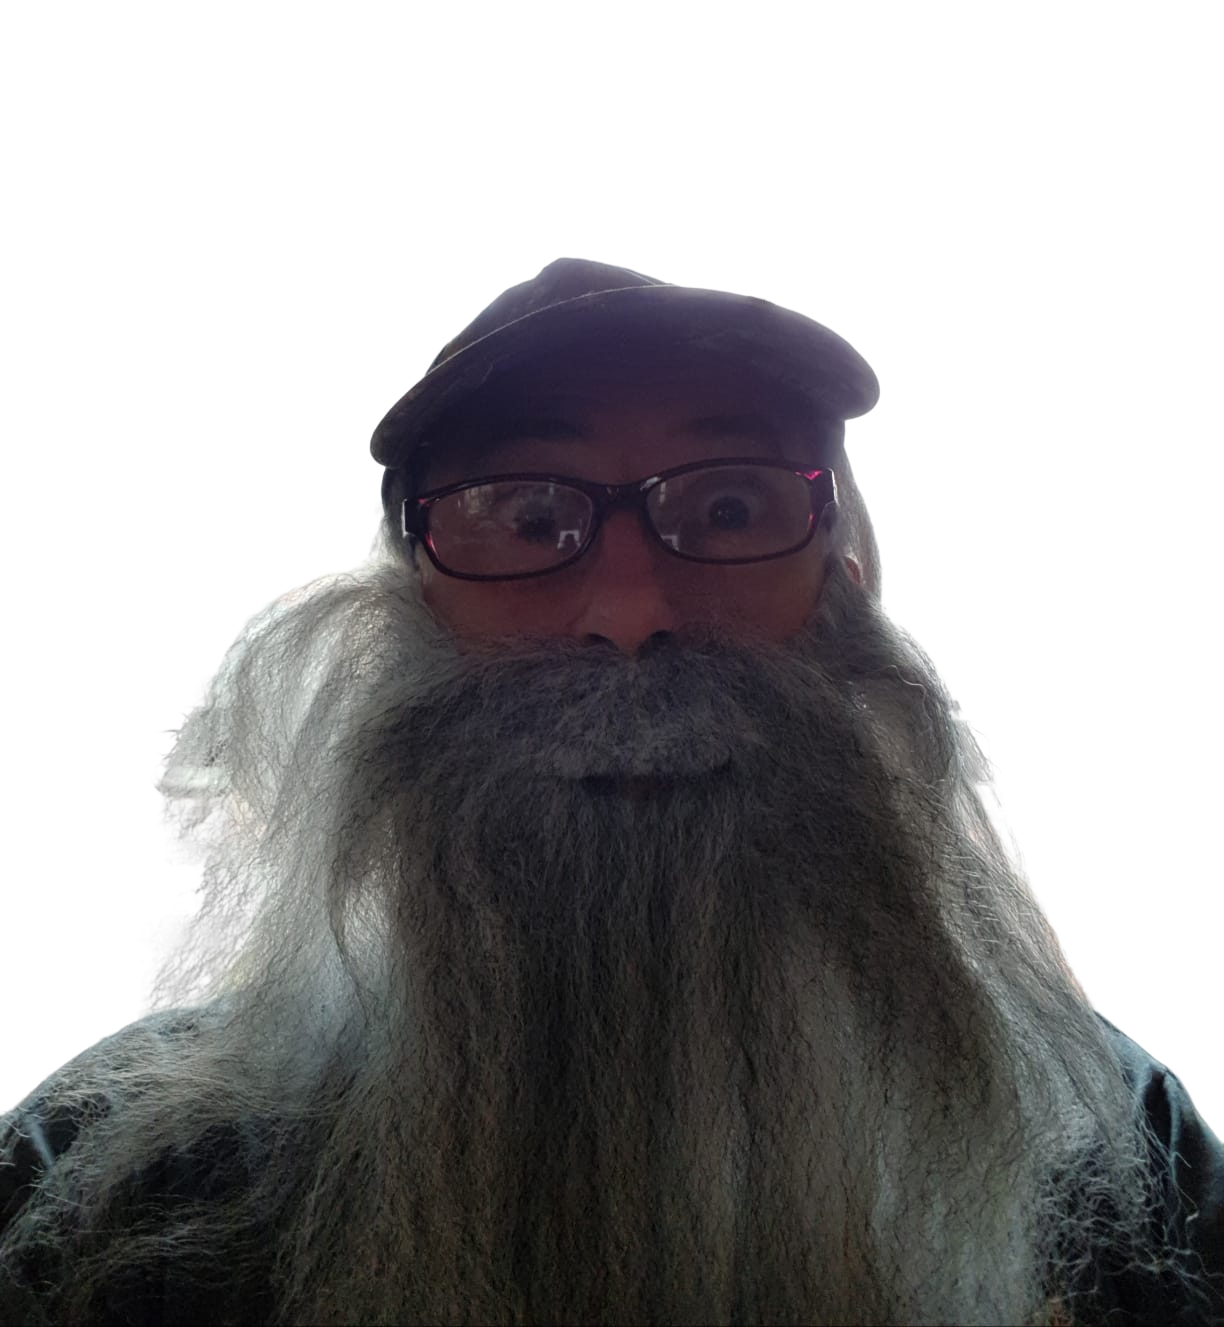
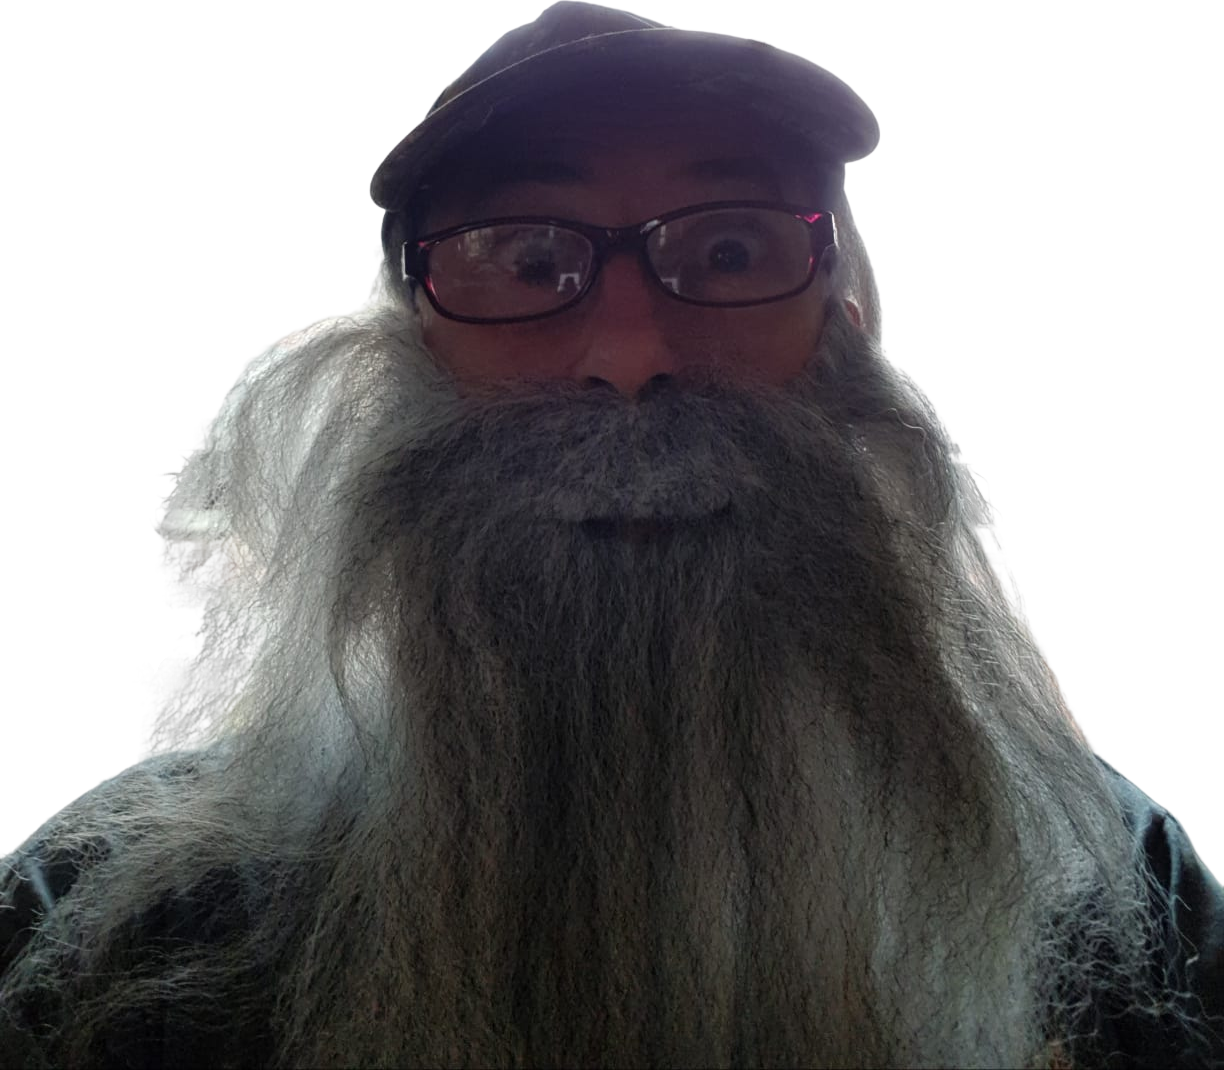
Cropped profile pic. Added About. Added Footer

diff --git a/src/components/nav/NavBar.tsx b/src/components/nav/NavBar.tsx
@@ -8,23 +8,23 @@ import { IoMailSharp } from 'react-icons/io5';
 const NavBar = () => {
   return (
     <nav className='sticky font-handlee bg-blue-100 px-2 pt-1 flex justify-between'>
-      <a className='flex flex-col align-center text-sm hover:underline hover:cursor-pointer'>
+      <a className='flex flex-col align-center text-sm hover:underline hover:cursor-pointer hover:text-purple-700'>
         <IoHome className='w-full text-black'/>
         Home
       </a>
-      <a className='flex flex-col align-center text-sm hover:underline hover:cursor-pointer'>
+      <a className='flex flex-col align-center text-sm hover:underline hover:cursor-pointer hover:text-purple-700'>
         <IoInformationCircleSharp className='w-full text-blue-400'  />
         About
       </a>
-      <a className='flex flex-col align-center text-sm hover:underline hover:cursor-pointer'>
+      <a className='flex flex-col align-center text-sm hover:underline hover:cursor-pointer hover:text-purple-700'>
         <IoBookSharp className='w-full text-green-600'  />
         Poetry
       </a>
-      <a className='flex flex-col align-center text-sm hover:underline hover:cursor-pointer'>
+      <a className='flex flex-col align-center text-sm hover:underline hover:cursor-pointer hover:text-purple-700'>
         <IoLogoYoutube className='w-full text-youtube-red' />
         Media
       </a>
-      <a className='flex flex-col align-center text-sm hover:underline hover:cursor-pointer'>
+      <a className='flex flex-col align-center text-sm hover:underline hover:cursor-pointer hover:text-purple-700'>
         <IoMailSharp className='w-full text-gray-600' />
         Contact me
       </a>

diff --git a/src/App.tsx b/src/App.tsx
@@ -1,12 +1,18 @@
 import React from 'react';
-import NavBar from './components/NavBar';
-import Hero from './components/Hero';
+import NavBar from './components/nav/NavBar';
+import Hero from './components/hero/Hero';
+import About from './components/about/About';
+import Footer from './components/footer/Footer';
 
 function App() {
   return (
-    <section className='w-screen h-screen'>
-      <NavBar />
-      <Hero/>
+    <section className='flex justify-center max-w-8xl h-screen bg-orange-50'>
+      <section className='w-[800px] mx-auto'>
+        <NavBar />
+        <Hero />
+        <About />
+        <Footer />
+      </section>
     </section>
   );
 }

diff --git a/src/components/about/About.tsx b/src/components/about/About.tsx
@@ -1,0 +1,14 @@
+import React from 'react'
+
+const About = () => {
+  return (
+    <div>
+      <p>Lorem ipsum dolor sit amet consectetur, adipisicing elit. Qui sint temporibus tempore, accusamus ullam neque. Facilis id dignissimos laboriosam vitae in at explicabo ipsam, libero porro, quos ad voluptate molestiae.</p>
+      <p>
+      Lorem ipsum dolor sit amet consectetur, adipisicing elit. Qui sint temporibus tempore, accusamus ullam neque. Facilis id dignissimos laboriosam vitae in at explicabo ipsam, libero porro, quos ad voluptate molestiae.
+      </p>
+    </div>
+  )
+}
+
+export default About

diff --git a/src/components/hero/HeroText.tsx b/src/components/hero/HeroText.tsx
@@ -1,16 +1,15 @@
 import React from 'react';
-import hero from '../assets/profile_pic.png';
 
-const Hero = () => {
+const HeroText = () => {
   return (
-    <div className='flex justify-evenly bg-orange-50'>
-      <img src={hero} className='h-auto w-48' alt='' />
+    <div>
       <h1 className='font-tangerine text-6xl text-center w-con'>
         Séamus
         <span className='block'>Rattigan</span>
       </h1>
+      <p className='font-handlee text-base leading-10'>Friendly Poet</p>
     </div>
   );
 };
 
-export default Hero;
+export default HeroText;

diff --git a/src/components/hero/Hero.tsx b/src/components/hero/Hero.tsx
@@ -1,0 +1,14 @@
+import React from 'react';
+import hero_image from '../../assets/profile_pic.png';
+import HeroText from './HeroText'
+
+const Hero = () => {
+  return (
+    <div className='p-2 flex flex-wrap gap-4 justify-around items-center bg-slate-200'>
+      <HeroText/>
+      <img src={hero_image} className='h-auto w-48' alt='hero_image' />
+    </div>
+  );
+};
+
+export default Hero;

diff --git a/src/components/footer/Footer.tsx b/src/components/footer/Footer.tsx
@@ -1,0 +1,9 @@
+import React from 'react'
+
+const Footer = () => {
+  return (
+    <footer className='absolute w-full bottom-0 bg-blue-100 text-center'>Footer</footer>
+  )
+}
+
+export default Footer
